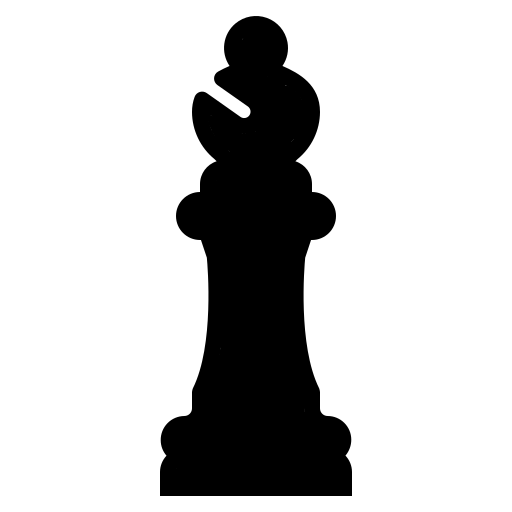
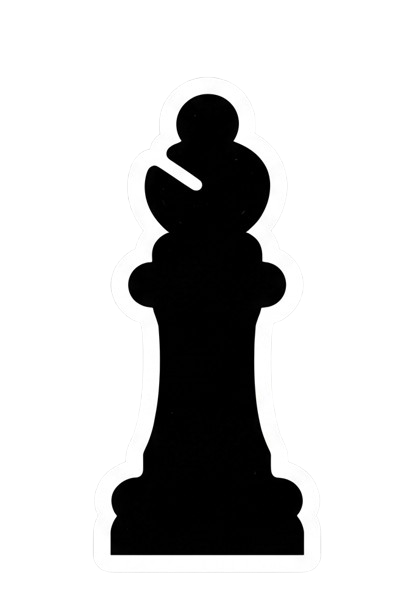
add: adicionado contorno branco aos icones pretos para seguir o padrao dos icones brancos + redimensionamento em IconesDTO para corrigir desproporção

Changed region(s): [[0.266, 0.0312, 0.7685, 0.9688]]

diff --git a/Trabalho_POO/src/dto/IconesDTO.java b/Trabalho_POO/src/dto/IconesDTO.java
@@ -15,22 +15,22 @@ public class IconesDTO {
 
     // ICONES
     ImageIcon cavaloBranco = ImageUtil.redimensionaImagem("/resources/cavalo-branco.png", 56, 56);
-    ImageIcon cavaloPreto = ImageUtil.redimensionaImagem("/resources/cavalo-preto.png", 56, 56);
+    ImageIcon cavaloPreto = ImageUtil.redimensionaImagem("/resources/cavalo-preto.png", 64, 64);
 
     ImageIcon reiBranco = ImageUtil.redimensionaImagem("/resources/rei-branco.png", 56, 56);
-    ImageIcon reiPreto = ImageUtil.redimensionaImagem("/resources/rei-preto.png", 56, 56);
+    ImageIcon reiPreto = ImageUtil.redimensionaImagem("/resources/rei-preto.png", 64, 64);
 
     ImageIcon torreBranco = ImageUtil.redimensionaImagem("/resources/torre-branca.png", 56, 56);
-    ImageIcon torrePreto = ImageUtil.redimensionaImagem("/resources/torre-preta.png", 56, 56);
+    ImageIcon torrePreto = ImageUtil.redimensionaImagem("/resources/torre-preta.png", 64, 64);
 
     ImageIcon bispoBranco = ImageUtil.redimensionaImagem("/resources/bispo-branco.png", 56, 56);
-    ImageIcon bispoPreto = ImageUtil.redimensionaImagem("/resources/bispo-preto.png", 56, 56);
+    ImageIcon bispoPreto = ImageUtil.redimensionaImagem("/resources/bispo-preto.png", 64, 64);
 
     ImageIcon damaBranco = ImageUtil.redimensionaImagem("/resources/dama-branca.png", 56, 56);
-    ImageIcon damaPreto = ImageUtil.redimensionaImagem("/resources/dama-preta.png", 56, 56);
+    ImageIcon damaPreto = ImageUtil.redimensionaImagem("/resources/dama-preta.png", 64, 64);
 
     ImageIcon peaoBranco = ImageUtil.redimensionaImagem("/resources/peao-branco.png", 56, 56);
-    ImageIcon peaoPreto = ImageUtil.redimensionaImagem("/resources/peao-preto.png", 56, 56);
+    ImageIcon peaoPreto = ImageUtil.redimensionaImagem("/resources/peao-preto.png", 64, 64);
 
     // getters
     public ImageIcon getCavaloBranco() {
